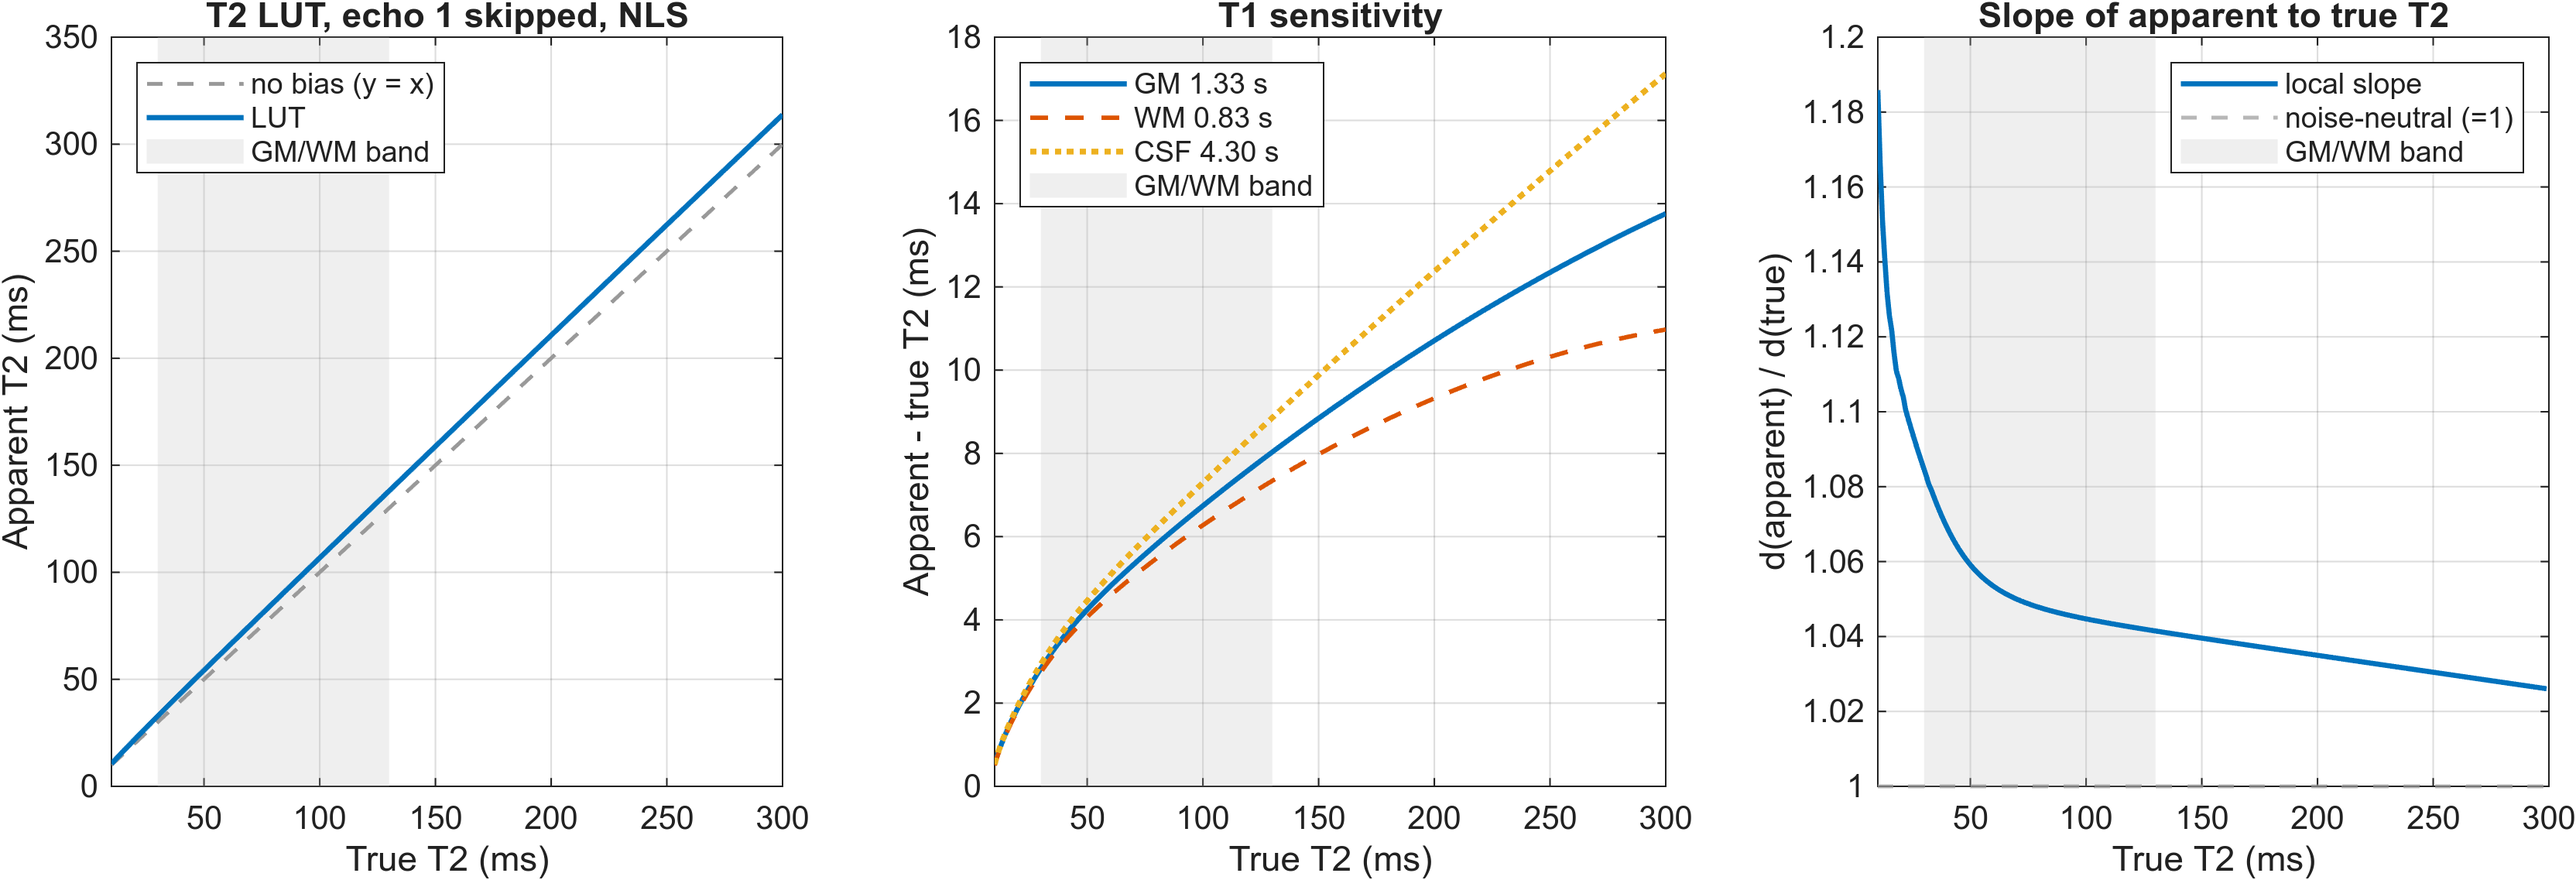
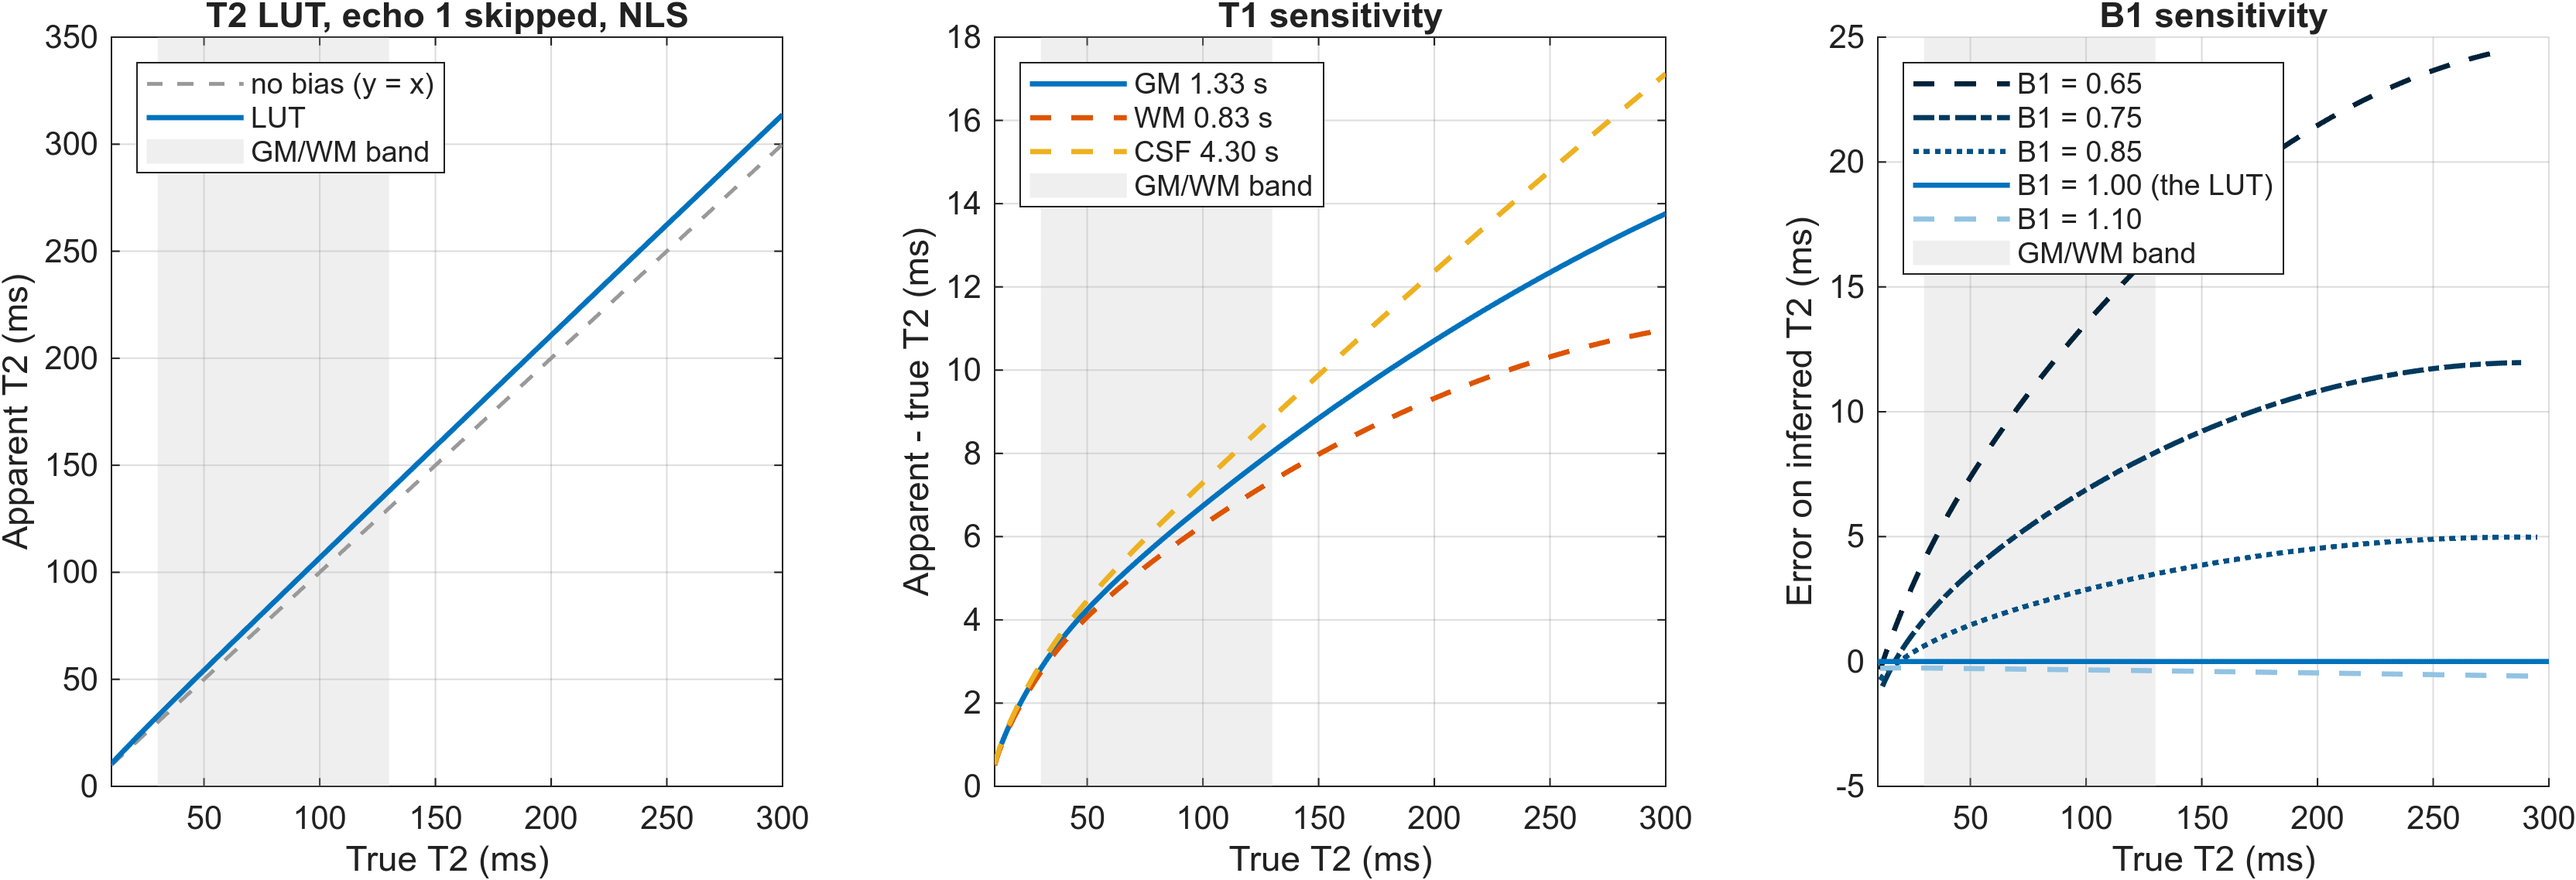
Updated figure to illustrate the LUT error estimates

diff --git a/README.md b/README.md
@@ -207,7 +207,7 @@ Optionally, selected echoes in the echo train length may be skipped (default: no
 ### Look up table
 The resulting LUT is a MATLAB struct optionally saved as a JSON file and reporting all protocol information and toolbox options selected to build it. 
 
-**Example of LUT, its sensitivity to tissue T1 and local slope of the mapping**
+**Example of LUT, its sensitivity to tissue T1 and to transmit inhomogeneity**
 <p align="center">
 <img src="docs/figures/T2_LUT.png" alt="LUT" width="100%"/>
 </p>
